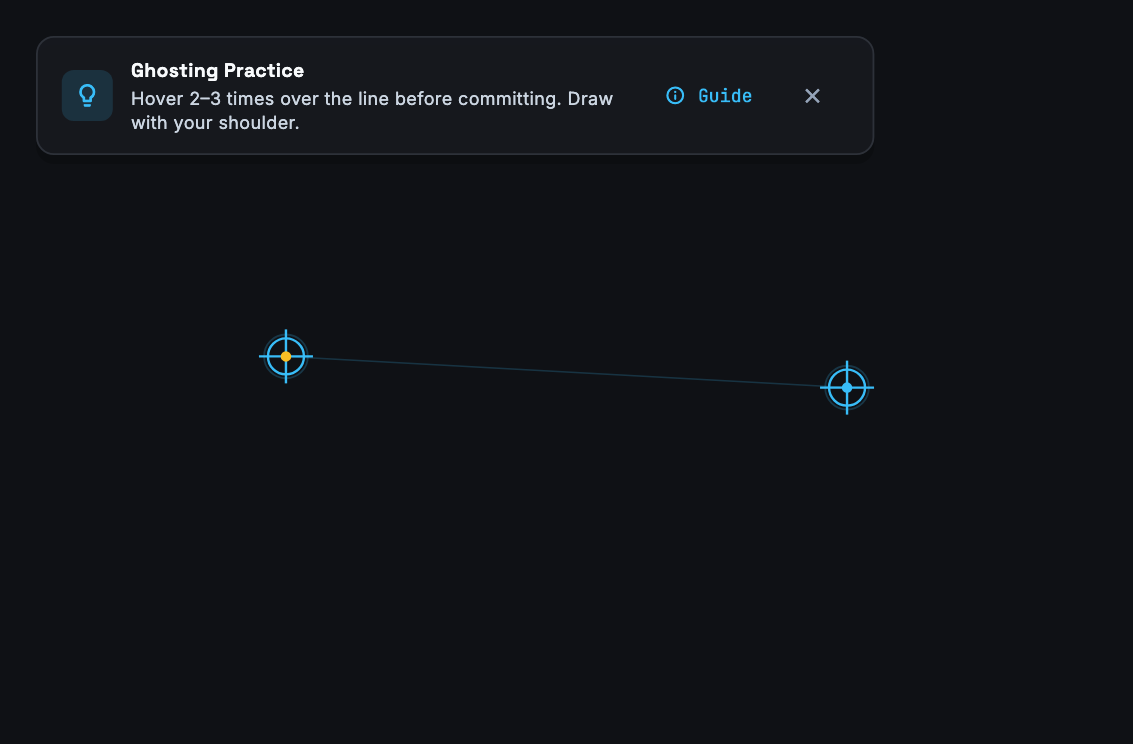
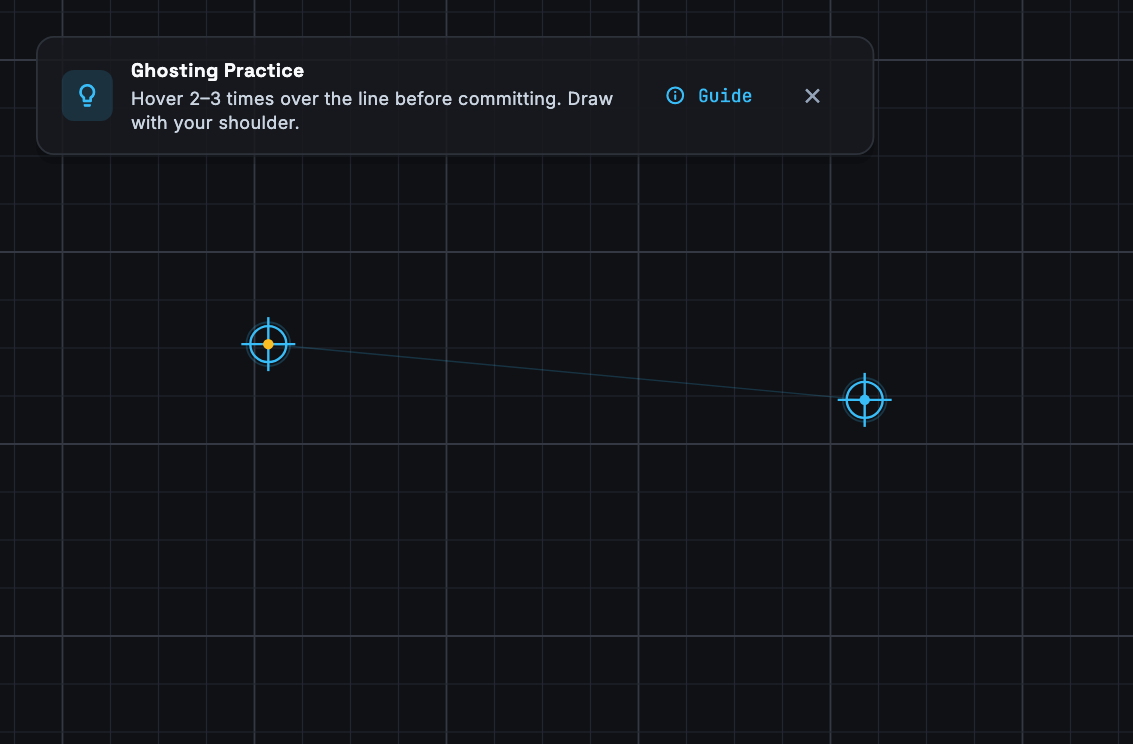
fix(canvas): enable unconstrained InteractiveViewer and enhance grid visibility

diff --git a/lib/canvas/canvas_grid_painter.dart b/lib/canvas/canvas_grid_painter.dart
@@ -21,12 +21,12 @@ class CanvasGridPainter extends CustomPainter {
 
     final majorPaint = Paint()
       ..color = theme.gridLineMajor
-      ..strokeWidth = 1.0
+      ..strokeWidth = 1.2
       ..style = PaintingStyle.stroke;
 
     final minorPaint = Paint()
       ..color = theme.gridLineMinor
-      ..strokeWidth = 0.6
+      ..strokeWidth = 0.8
       ..style = PaintingStyle.stroke;
 
     switch (gridType) {
@@ -42,7 +42,12 @@ class CanvasGridPainter extends CustomPainter {
     }
   }
 
-  void _paintSquareGrid(Canvas canvas, Size size, Paint majorPaint, Paint minorPaint) {
+  void _paintSquareGrid(
+    Canvas canvas,
+    Size size,
+    Paint majorPaint,
+    Paint minorPaint,
+  ) {
     const spacing = 32.0;
     const majorInterval = 4;
 
@@ -55,7 +60,7 @@ class CanvasGridPainter extends CustomPainter {
         for (int y = 0; y <= rows; y++) {
           final isMajor = (x % majorInterval == 0) && (y % majorInterval == 0);
           dotPaint.color = isMajor ? theme.gridLineMajor : theme.gridLineMinor;
-          final radius = isMajor ? 1.8 : 1.0;
+          final radius = isMajor ? 2.0 : 1.2;
           canvas.drawCircle(Offset(x * spacing, y * spacing), radius, dotPaint);
         }
       }
@@ -173,7 +178,7 @@ class CanvasGridPainter extends CustomPainter {
   }
 
   void _drawDashedLine(Canvas canvas, Offset p1, Offset p2, Paint paint) {
-    const dashLength = 6.0;
+    const dashLength = 8.0;
     const dashSpace = 6.0;
     final totalDist = (p2 - p1).distance;
     if (totalDist == 0) return;
@@ -183,14 +188,15 @@ class CanvasGridPainter extends CustomPainter {
 
     while (currentDist < totalDist) {
       final start = p1 + unitVector * currentDist;
-      final end = p1 + unitVector * math.min(currentDist + dashLength, totalDist);
+      final end =
+          p1 + unitVector * math.min(currentDist + dashLength, totalDist);
       canvas.drawLine(start, end, paint);
       currentDist += dashLength + dashSpace;
     }
   }
 
   void _drawDottedLine(Canvas canvas, Offset p1, Offset p2, Paint paint) {
-    const dotInterval = 12.0;
+    const dotInterval = 10.0;
     final totalDist = (p2 - p1).distance;
     if (totalDist == 0) return;
 
@@ -200,7 +206,7 @@ class CanvasGridPainter extends CustomPainter {
       ..style = PaintingStyle.fill;
 
     for (double dist = 0; dist < totalDist; dist += dotInterval) {
-      canvas.drawCircle(p1 + unitVector * dist, 1.2, dotPaint);
+      canvas.drawCircle(p1 + unitVector * dist, 1.4, dotPaint);
     }
   }
 
@@ -208,6 +214,7 @@ class CanvasGridPainter extends CustomPainter {
   bool shouldRepaint(covariant CanvasGridPainter oldDelegate) {
     return oldDelegate.gridStyle != gridStyle ||
         oldDelegate.gridType != gridType ||
-        oldDelegate.theme.mode != theme.mode;
+        oldDelegate.theme.mode != theme.mode ||
+        oldDelegate.theme.canvasBackground != theme.canvasBackground;
   }
 }

diff --git a/lib/core/theme/app_theme.dart b/lib/core/theme/app_theme.dart
@@ -143,8 +143,8 @@ class AppThemeTokens {
       success: const Color(0xFF16A34A),
       warning: const Color(0xFFEA580C),
       danger: const Color(0xFFDC2626),
-      gridLineMajor: const Color(0xFFCBD5E1),
-      gridLineMinor: const Color(0xFFE2E8F0),
+      gridLineMajor: const Color(0xFF94A3B8),
+      gridLineMinor: const Color(0xFFCBD5E1),
       reticleColor: const Color(0xFF2563EB),
       headingStyle: baseHeading,
       bodyStyle: baseBody,
@@ -180,8 +180,8 @@ class AppThemeTokens {
       success: const Color(0xFF22C55E),
       warning: const Color(0xFFF97316),
       danger: const Color(0xFFEF4444),
-      gridLineMajor: const Color(0xFF2A2E37),
-      gridLineMinor: const Color(0xFF1E2128),
+      gridLineMajor: const Color(0xFF333842),
+      gridLineMinor: const Color(0xFF22262F),
       reticleColor: const Color(0xFF38BDF8),
       headingStyle: baseHeading,
       bodyStyle: baseBody,
@@ -217,8 +217,8 @@ class AppThemeTokens {
       success: const Color(0xFF34D399),
       warning: const Color(0xFFFB923C),
       danger: const Color(0xFFF87171),
-      gridLineMajor: const Color(0xFF1E40AF),
-      gridLineMinor: const Color(0xFF172554),
+      gridLineMajor: const Color(0x5538BDF8),
+      gridLineMinor: const Color(0x2838BDF8),
       reticleColor: const Color(0xFF38BDF8),
       headingStyle: baseHeading,
       bodyStyle: baseBody,

diff --git a/lib/canvas/interactive_canvas.dart b/lib/canvas/interactive_canvas.dart
@@ -172,6 +172,7 @@ class _InteractiveCanvasState extends State<InteractiveCanvas> {
             maxScale: 6.0,
             panEnabled: !_isDrawing,
             scaleEnabled: !_isDrawing,
+            constrained: false,
             child: SizedBox(
               width: 4000,
               height: 4000,
